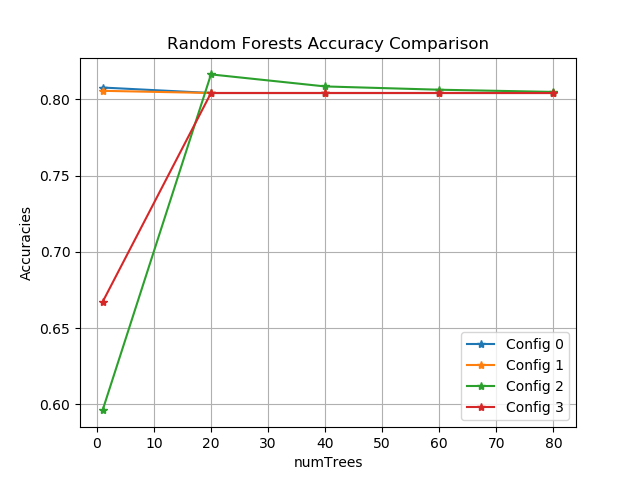
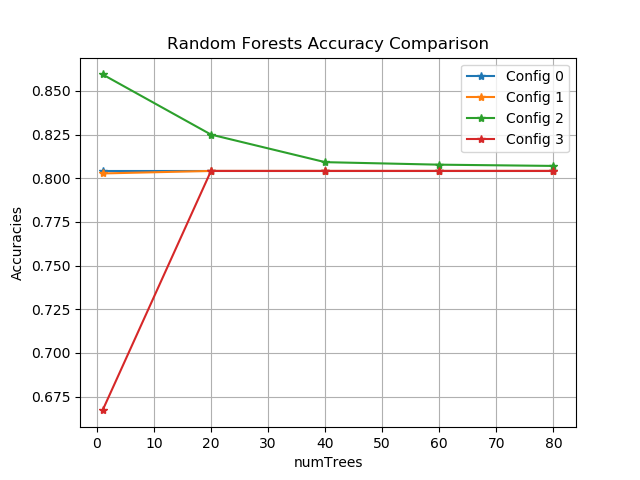
REGENERATED: homework4 prob1 report.

diff --git a/Assignment4/Code/model/RandomForestsModel.py b/Assignment4/Code/model/RandomForestsModel.py
@@ -30,19 +30,24 @@ class RandomForestModel(object):
         for _ in range(self.numTrees):
             # seed = random.randint(0, self.numTrees)
             # feature restriction: different random set for each tree
+
             if self.feature_restriction > 0:
                 selected_indices = select_random_indices(len(x[0]),
-                                                         self.feature_restriction,
-                                                         seed=None)
+                                                          self.feature_restriction,
+                                                          seed=None)
 
                 x = restrict_features(x, selected_indices)
+            else:
+                selected_indices = [x for x in range(len(x[0]))]
+
+            self.selected_indices.append(selected_indices)
 
             if self.use_bagging:
                 x = get_bagged_samples(x, seed=None)
 
             xs.append(x)
 
-        self.trees = [build_tree(x, y, min_to_split) for x in xs]
+        #self.trees = [build_tree(x, y, min_to_split) for x in xs]
         self.trees = Parallel(n_jobs=12)(delayed(build_tree)(x, y, min_to_split)
                                          for x in xs)
 
@@ -50,10 +55,11 @@ class RandomForestModel(object):
 
         self.predictions = []
         print("Predicting results with {} tree(s).".format(len(self.trees)))
-        for tree in self.trees:
+        for selected_indices, tree in zip(self.selected_indices, self.trees):
 
             i_predictions = []
             for example in xTest:
+                example = [example[i] for i in selected_indices]
                 if threshold is None:
                     i_predictions.append(predict(tree, example))
                 else:

diff --git a/Assignment4/Code/assignments/random_forests_part1.py b/Assignment4/Code/assignments/random_forests_part1.py
@@ -19,9 +19,13 @@ def calculate_accuracies(numTrees=10,
     xTrain, xTest, yTrain, yTest = get_featurized_xs_ys(with_noise)
     rfm.fit(xTrain, yTrain, min_to_split=min_to_split)
     yTestPredicted = rfm.predict(xTest)
-    accuracies = [Evaluation(yTest, yTestPredicted).accuracy]
+    ev = Evaluation(yTest, yTestPredicted)
+    print("Overall prediction:")
+    print(ev)
+    accuracies = [ev.accuracy]
     for prediction in rfm.predictions:
-        accuracies.append(Evaluation(yTest, prediction).accuracy)
+        ev = Evaluation(yTest, prediction)
+        accuracies.append(ev.accuracy)
 
     return accuracies
 
@@ -69,7 +73,7 @@ def create_accuracy_comparison_tables(numTrees=10,
 
 if __name__ == '__main__':
 
-    config = -1
+    config = 2
 
     if config == -1:  # basic configuration
         create_accuracy_comparison_tables(numTrees=10,

diff --git a/Assignment4/Code/test/test_random_forest.py b/Assignment4/Code/test/test_random_forest.py
@@ -10,7 +10,7 @@ class TestRandomForestModel(unittest.TestCase):
     def test_fit_predicts(self):
 
         xTrain, xTest, yTrain, yTest = get_featurized_xs_ys(numMutualInformationWords=295)
-        for fr in [0, 10, 50, 100, 200, 300]:
+        for fr in [10, 50, 100, 200, 300]:
             rfm = RandomForestModel(numTrees=20,
                                     use_bagging=True,
                                     feature_restriction=fr,

diff --git a/Assignment4/Report/prob1_part1_tree_accurarices_20_bFalse,r20.md b/Assignment4/Report/prob1_part1_tree_accurarices_20_bFalse,r20.md
@@ -1,26 +1,26 @@
 |          Trees          |        Accuracies       |
 |-------------------------|-------------------------|
-|           Full          |    0.8163558106169297   |
-|          Tree 0         |    0.5961262553802008   |
-|          Tree 1         |    0.7596843615494978   |
-|          Tree 2         |    0.6111908177905309   |
-|          Tree 3         |    0.6248206599713056   |
-|          Tree 4         |    0.7912482065997131   |
-|          Tree 5         |    0.8242467718794835   |
-|          Tree 6         |    0.8177905308464849   |
-|          Tree 7         |    0.8400286944045912   |
-|          Tree 8         |    0.7625538020086083   |
-|          Tree 9         |    0.8142037302725968   |
-|         Tree 10         |    0.8012912482065997   |
-|         Tree 11         |    0.8170731707317073   |
-|         Tree 12         |    0.7977044476327116   |
-|         Tree 13         |    0.7847919655667145   |
-|         Tree 14         |    0.6377331420373027   |
-|         Tree 15         |    0.8070301291248206   |
-|         Tree 16         |    0.8263988522238164   |
-|         Tree 17         |    0.7984218077474893   |
-|         Tree 18         |    0.8149210903873745   |
-|         Tree 19         |    0.8070301291248206   |
+|           Full          |    0.8249641319942611   |
+|          Tree 0         |    0.8593974175035868   |
+|          Tree 1         |    0.5961262553802008   |
+|          Tree 2         |    0.7596843615494978   |
+|          Tree 3         |    0.6111908177905309   |
+|          Tree 4         |    0.624103299856528    |
+|          Tree 5         |    0.7912482065997131   |
+|          Tree 6         |    0.8242467718794835   |
+|          Tree 7         |    0.8177905308464849   |
+|          Tree 8         |    0.8400286944045912   |
+|          Tree 9         |    0.7625538020086083   |
+|         Tree 10         |    0.8142037302725968   |
+|         Tree 11         |    0.8012912482065997   |
+|         Tree 12         |    0.8170731707317073   |
+|         Tree 13         |    0.7977044476327116   |
+|         Tree 14         |    0.7847919655667145   |
+|         Tree 15         |    0.6377331420373027   |
+|         Tree 16         |    0.8070301291248206   |
+|         Tree 17         |    0.8263988522238164   |
+|         Tree 18         |    0.7984218077474893   |
+|         Tree 19         |    0.8149210903873745   |
 
 Use Bagging: False
 Feature Restriction: 20

diff --git a/Assignment4/Report/prob1_part1_tree_accurarices_20_bTrue,r20.md b/Assignment4/Report/prob1_part1_tree_accurarices_20_bTrue,r20.md
@@ -1,0 +1,28 @@
+|          Trees          |        Accuracies       |
+|-------------------------|-------------------------|
+|           Full          |    0.8041606886657102   |
+|          Tree 0         |    0.8041606886657102   |
+|          Tree 1         |    0.8098995695839312   |
+|          Tree 2         |    0.8012912482065997   |
+|          Tree 3         |    0.8020086083213773   |
+|          Tree 4         |   0.27403156384505023   |
+|          Tree 5         |    0.7890961262553802   |
+|          Tree 6         |    0.7288378766140603   |
+|          Tree 7         |    0.7962697274031564   |
+|          Tree 8         |    0.8048780487804879   |
+|          Tree 9         |    0.7955523672883787   |
+|         Tree 10         |    0.793400286944046    |
+|         Tree 11         |    0.8041606886657102   |
+|         Tree 12         |    0.8113342898134863   |
+|         Tree 13         |    0.8106169296987088   |
+|         Tree 14         |    0.8020086083213773   |
+|         Tree 15         |    0.6262553802008608   |
+|         Tree 16         |    0.8034433285509326   |
+|         Tree 17         |    0.8041606886657102   |
+|         Tree 18         |    0.8070301291248206   |
+|         Tree 19         |    0.6140602582496413   |
+
+Use Bagging: True
+Feature Restriction: 20
+MinToSplit: 2
+Seed for random: 10000

diff --git a/Assignment4/Report/prob1_part1_tree_accurarices_10_bTrue,r20.md b/Assignment4/Report/prob1_part1_tree_accurarices_10_bTrue,r20.md
@@ -1,16 +1,16 @@
 |          Trees          |        Accuracies       |
 |-------------------------|-------------------------|
 |           Full          |    0.8041606886657102   |
-|          Tree 0         |    0.639167862266858    |
-|          Tree 1         |    0.7826398852223816   |
-|          Tree 2         |    0.7360114777618364   |
-|          Tree 3         |    0.7883787661406025   |
-|          Tree 4         |    0.7962697274031564   |
-|          Tree 5         |    0.7948350071736011   |
-|          Tree 6         |    0.8106169296987088   |
-|          Tree 7         |    0.8263988522238164   |
-|          Tree 8         |    0.8041606886657102   |
-|          Tree 9         |    0.8041606886657102   |
+|          Tree 0         |    0.8041606886657102   |
+|          Tree 1         |    0.8256814921090387   |
+|          Tree 2         |    0.6915351506456241   |
+|          Tree 3         |    0.8041606886657102   |
+|          Tree 4         |    0.7948350071736011   |
+|          Tree 5         |    0.3629842180774749   |
+|          Tree 6         |    0.6814921090387375   |
+|          Tree 7         |    0.8091822094691535   |
+|          Tree 8         |    0.7883787661406025   |
+|          Tree 9         |    0.7173601147776184   |
 
 Use Bagging: True
 Feature Restriction: 20
